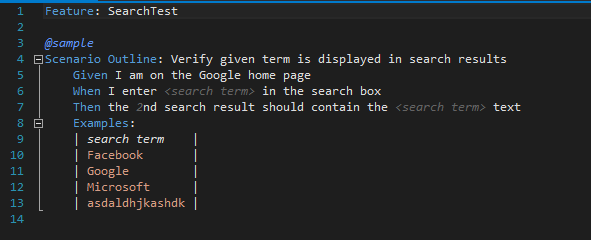
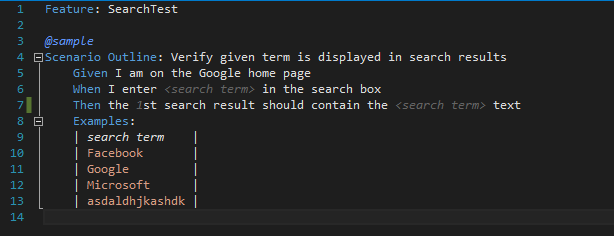
update

Changed region(s): [[0.0, 0.089, 0.8832, 0.9492], [0.0, 0.0, 1.0, 0.089]]

diff --git a/GoogleTestProject/Tests/SearchTest.feature.cs b/GoogleTestProject/Tests/SearchTest.feature.cs
@@ -86,7 +86,7 @@ this.ScenarioSetup(scenarioInfo);
 #line 6
  testRunner.When(string.Format("I enter {0} in the search box", searchTerm), ((string)(null)), ((TechTalk.SpecFlow.Table)(null)), "When ");
 #line 7
- testRunner.Then(string.Format("the 2nd search result should contain the {0} text", searchTerm), ((string)(null)), ((TechTalk.SpecFlow.Table)(null)), "Then ");
+ testRunner.Then(string.Format("the 1st search result should contain the {0} text", searchTerm), ((string)(null)), ((TechTalk.SpecFlow.Table)(null)), "Then ");
 #line hidden
             this.ScenarioCleanup();
         }
